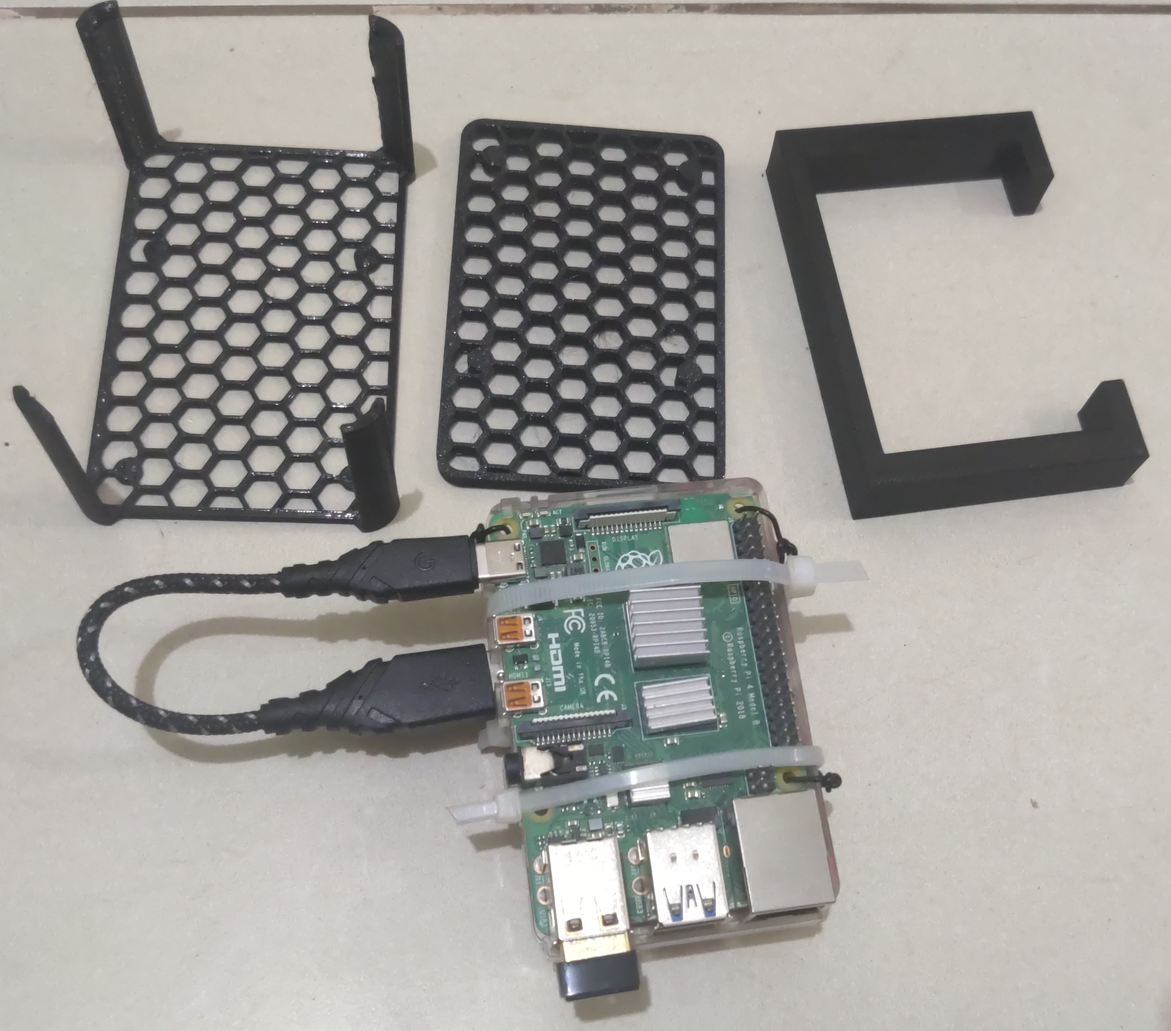
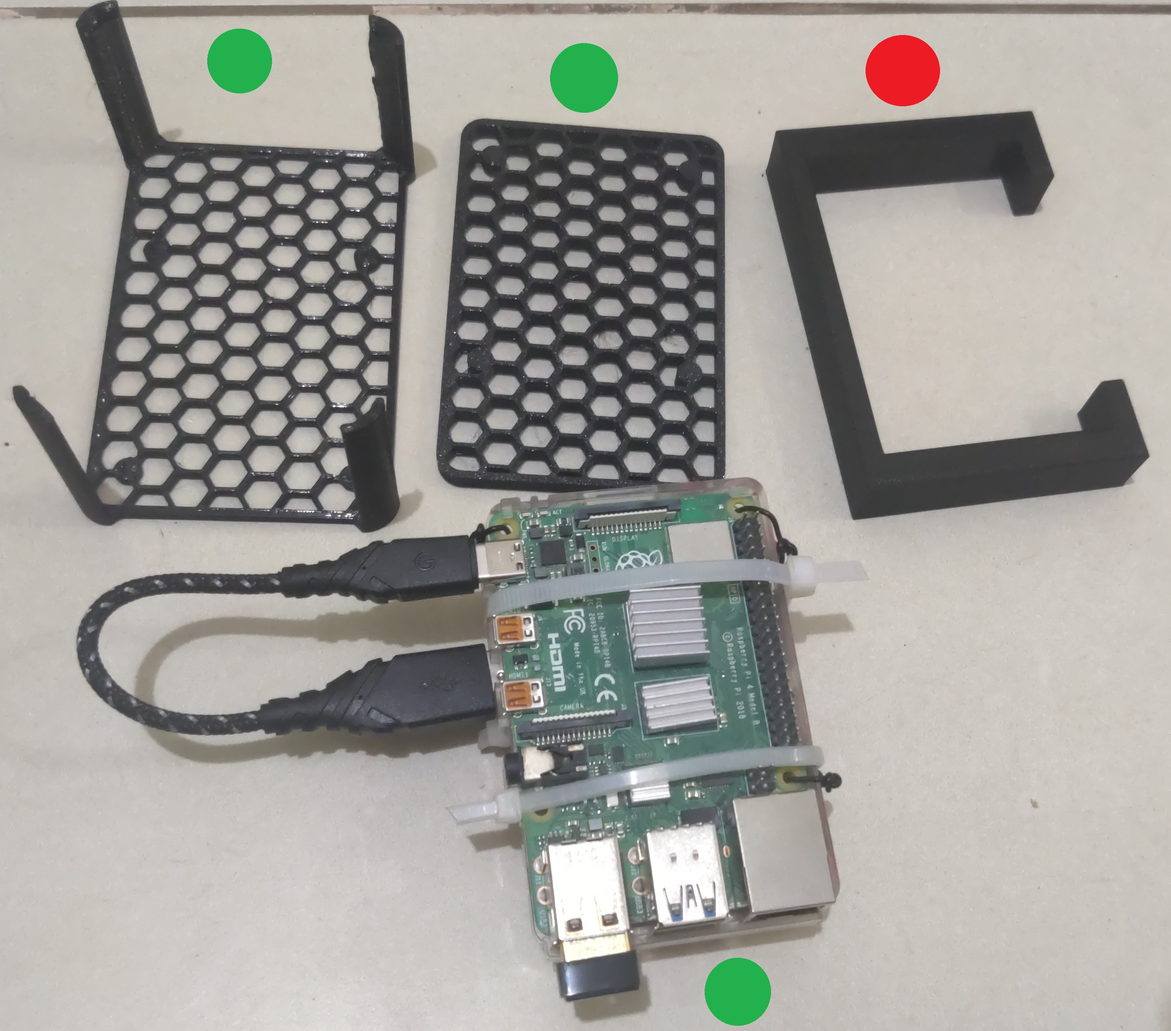
some updated -reagrading payload

diff --git a/tables/timeline.tex b/tables/timeline.tex
@@ -37,7 +37,7 @@
                     design constraints parameters
                 }
                 }
-                & \emph{24-01-2022} & \emph{10-02-2022} & 
+                & \emph{24-01-2022} & \emph{15-02-2022} & 
             \\ \addlinespace
 
             Task \thesubcounter: 
@@ -61,7 +61,7 @@
                     3D print design
                 }
                 }
-                & \emph{10-02-2022} & \emph{20-02-2022} & 
+                & \emph{15-03-2022} & \emph{31-03-2022} & 
             \\ \addlinespace
 
             Task \thesubcounter: 
@@ -104,7 +104,7 @@
                     Moving target solution
                 }
                 }
-                & \emph{20-02-2022} & \emph{28-02-2022} & 
+                & \emph{20-03-2022} & \emph{31-03-2022} & 
             \\ \addlinespace
 
             Task \thesubcounter: 

diff --git a/sections/testing.tex b/sections/testing.tex
@@ -331,11 +331,12 @@ battery drain that went from
 \SI{100}{\percent} to \SI{90}{\percent} in 
 \SI{1.5}{minutes}. This is because the propeller motors will try to push 
 their limits to take off the drone, which will consume more energy.
-After adding payload to the drone at \SI{250}{grams}, the drone couldn't
+After adding payload to the drone at \SI{200}{grams}, the drone couldn't
 takeoff and we now know the payload limit, which will be considered in the 
 design constraints. In the actual design, as shown in 
 \cref{fig:actual-total-weight} the total payload 
-is \SI{220}{grams} which is less than the payload constraint.
+is \SI{193}{grams} which is less than the payload constraint.
+
 
 
 \begin{figure}[H]

diff --git a/sections/implementation.tex b/sections/implementation.tex
@@ -98,7 +98,11 @@ We have used the zip tie to hold the components and to
 make sure everything sticks together. Then we put them in the 3d
 printed case. As shown in 
 \cref{fig:full-hardware}, all the parts are in one system. 
-The test flight was smooth, and everything worked perfectly. 
+While testing it, the drone struggled to take off and balance itself
+because the total weight exceeded the limit. So we
+only used the parts that are marked with a green dot 
+as shown in \cref{fig:components} and the weight reduced to \SI{193}{gram}.
+
 
 \begin{figure}[p]
 	\centering

diff --git a/sections/requirements.tex b/sections/requirements.tex
@@ -206,7 +206,7 @@ and the environment within which the drone will fly.
         Payload  
             & The Raspberry Pi with its peripherals 
             must not exceed 
-            \SI{250}{grams}, 
+            \SI{200}{grams}, 
             which is the maximum payload mass 
             of the \anafi drone. \\
 
